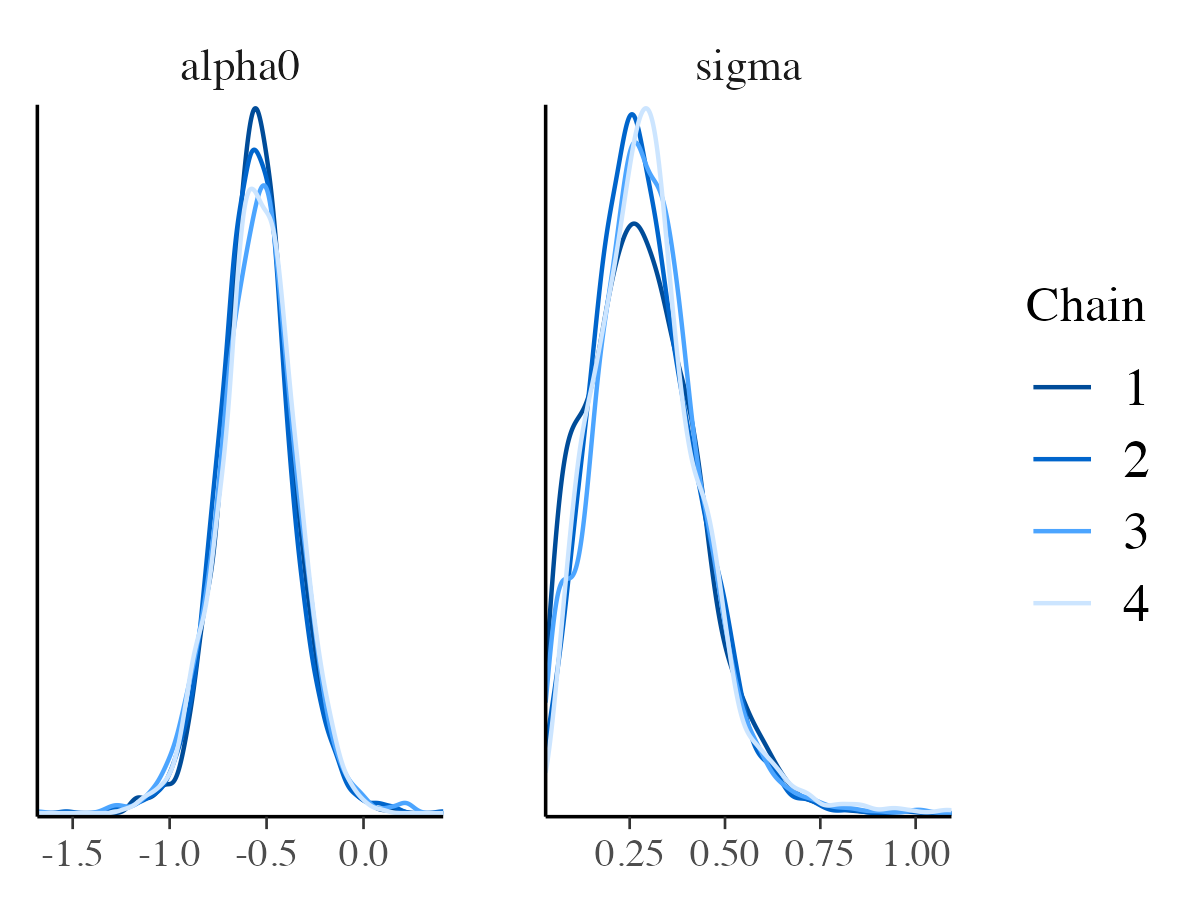
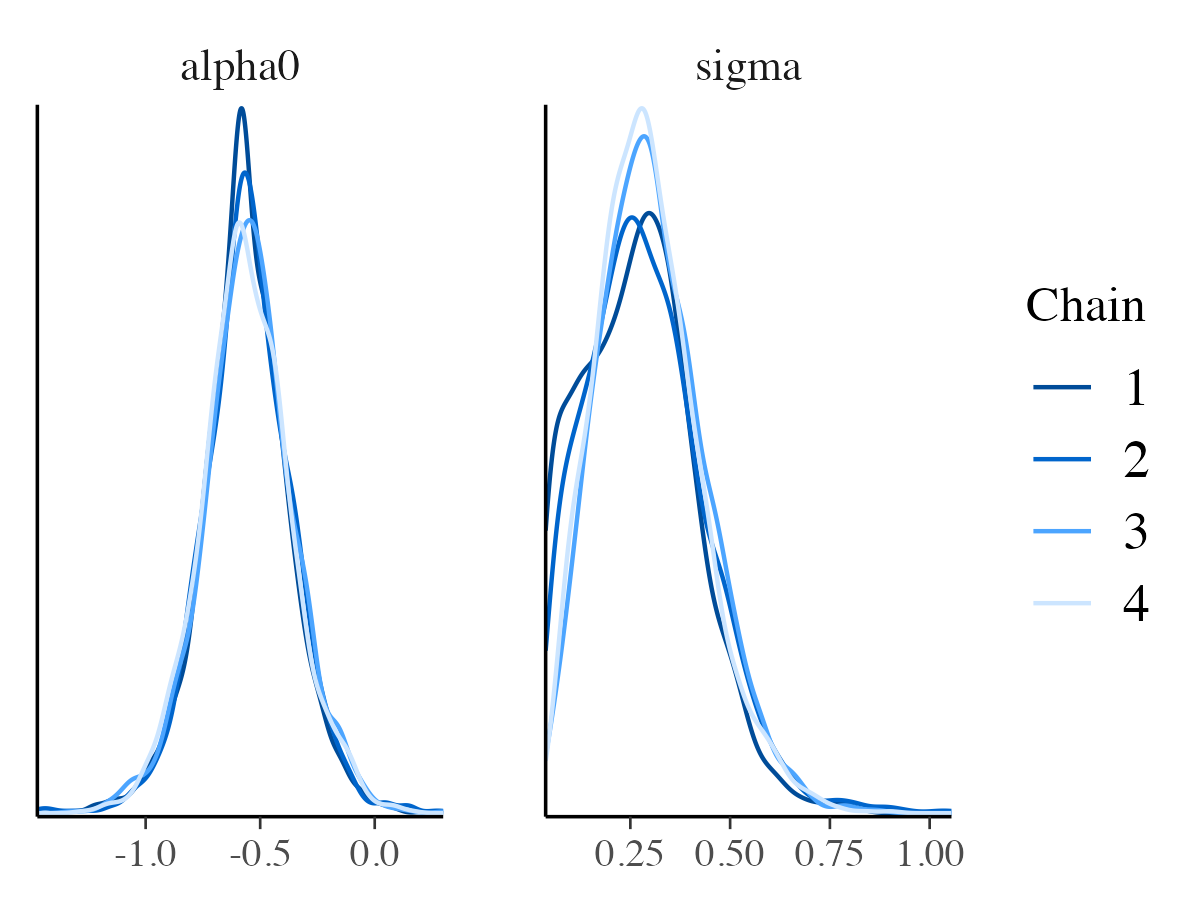
deploy: 2ca08b95e4a7eaa0489c3105c9d0fc54897b3ba8

diff --git a/articles/rjuliabugs.html b/articles/rjuliabugs.html
@@ -261,16 +261,16 @@ through <code>summary</code> function</p>
 <span><span class="co">#&gt; Summary Statistics:</span></span>
 <span><span class="co">#&gt; </span></span>
 <span><span class="co">#&gt;  parameters     mean      std     mcse ess_bulk ess_tail  rhat ess_per_sec</span></span>
-<span><span class="co">#&gt;         tau 48.72800 118.1540 9.024527    367.2    246.1 1.011          NA</span></span>
-<span><span class="co">#&gt;     alpha12 -0.83567   0.4260 0.007892   2945.4   4013.0 1.001          NA</span></span>
-<span><span class="co">#&gt;      alpha2  1.35966   0.2639 0.004685   3143.4   4369.1 1.001          NA</span></span>
-<span><span class="co">#&gt;      alpha1  0.09395   0.3090 0.005900   2720.9   4336.2 1.001          NA</span></span>
-<span><span class="co">#&gt;      alpha0 -0.55675   0.1860 0.003248   3245.9   4222.5 1.001          NA</span></span>
-<span><span class="co">#&gt;        b[1] -0.18808   0.2550 0.006062   1942.7   3303.0 1.001          NA</span></span>
-<span><span class="co">#&gt;        b[2]  0.01135   0.2122 0.002706   6208.8   4643.8 1.002          NA</span></span>
-<span><span class="co">#&gt;        b[3] -0.19253   0.2300 0.005451   1827.7   3891.5 1.002          NA</span></span>
-<span><span class="co">#&gt;        b[4]  0.26859   0.2540 0.007448   1139.6   3348.6 1.001          NA</span></span>
-<span><span class="co">#&gt;        b[5]  0.11507   0.2346 0.003849   3909.7   4227.1 1.000          NA</span></span>
+<span><span class="co">#&gt;         tau 56.61748 129.1757 9.069893      312    279.6 1.010          NA</span></span>
+<span><span class="co">#&gt;     alpha12 -0.81882   0.4301 0.008336     2793   3387.9 1.002          NA</span></span>
+<span><span class="co">#&gt;      alpha2  1.35021   0.2680 0.005099     2827   2907.4 1.001          NA</span></span>
+<span><span class="co">#&gt;      alpha1  0.08780   0.3073 0.005583     3041   3988.9 1.001          NA</span></span>
+<span><span class="co">#&gt;      alpha0 -0.55210   0.1858 0.003337     3100   3813.0 1.001          NA</span></span>
+<span><span class="co">#&gt;        b[1] -0.18318   0.2527 0.006158     1834   3243.1 1.002          NA</span></span>
+<span><span class="co">#&gt;        b[2]  0.00825   0.2118 0.002992     5172   3396.0 1.002          NA</span></span>
+<span><span class="co">#&gt;        b[3] -0.18868   0.2253 0.005686     1661   3271.3 1.001          NA</span></span>
+<span><span class="co">#&gt;        b[4]  0.25764   0.2527 0.007917     1033   3913.9 1.003          NA</span></span>
+<span><span class="co">#&gt;        b[5]  0.10961   0.2302 0.003762     4193   4003.7 1.001          NA</span></span>
 <span><span class="co">#&gt;          ...</span></span>
 <span><span class="co">#&gt;   17 rows omitted</span></span></code></pre></div>
 <p>If we wish to obtain the summary statistics for each saved parameter,
@@ -381,7 +381,7 @@ package:</p>
 <span></span>
 <span><span class="co"># Example: effective sample size</span></span>
 <span><span class="fu">posterior</span><span class="fu">::</span><span class="fu"><a href="https://mc-stan.org/posterior/reference/ess_basic.html" class="external-link">ess_basic</a></span><span class="op">(</span><span class="va">posterior</span><span class="op">$</span><span class="va">params</span><span class="op">[</span>,,<span class="st">"alpha0"</span><span class="op">]</span><span class="op">)</span></span>
-<span><span class="co">#&gt; [1] 3278.035</span></span></code></pre></div>
+<span><span class="co">#&gt; [1] 3099.008</span></span></code></pre></div>
 </div>
 <div class="section level2">
 <h2 id="saving-and-loading-the-rjuliabugs-model">Saving and loading the <code>rjuliabugs</code> model<a class="anchor" aria-label="anchor" href="#saving-and-loading-the-rjuliabugs-model"></a>
